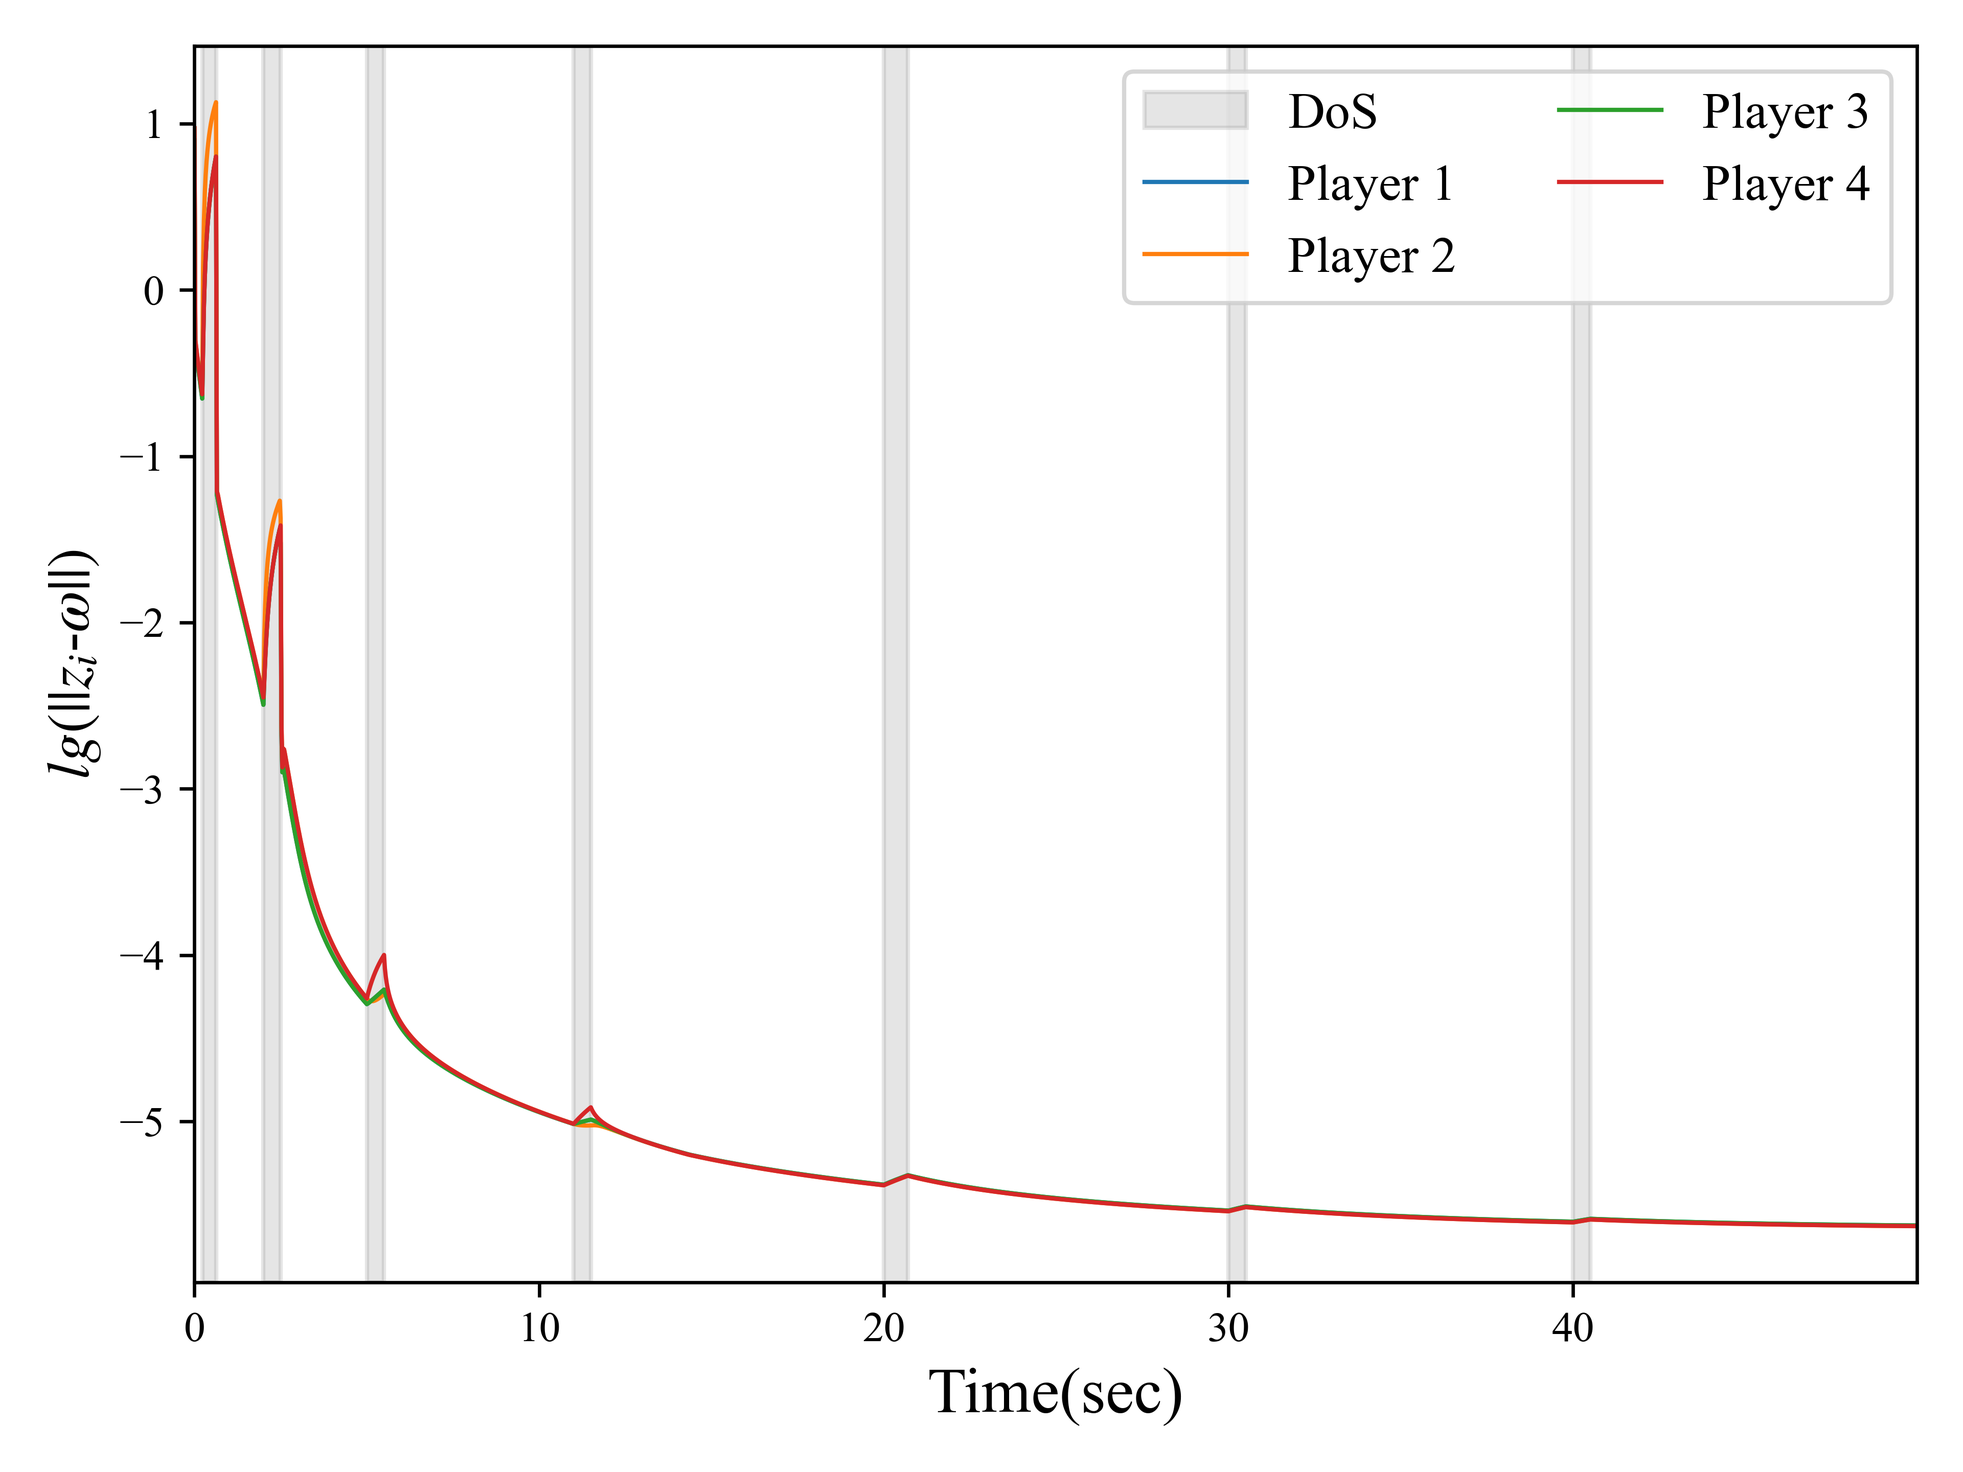
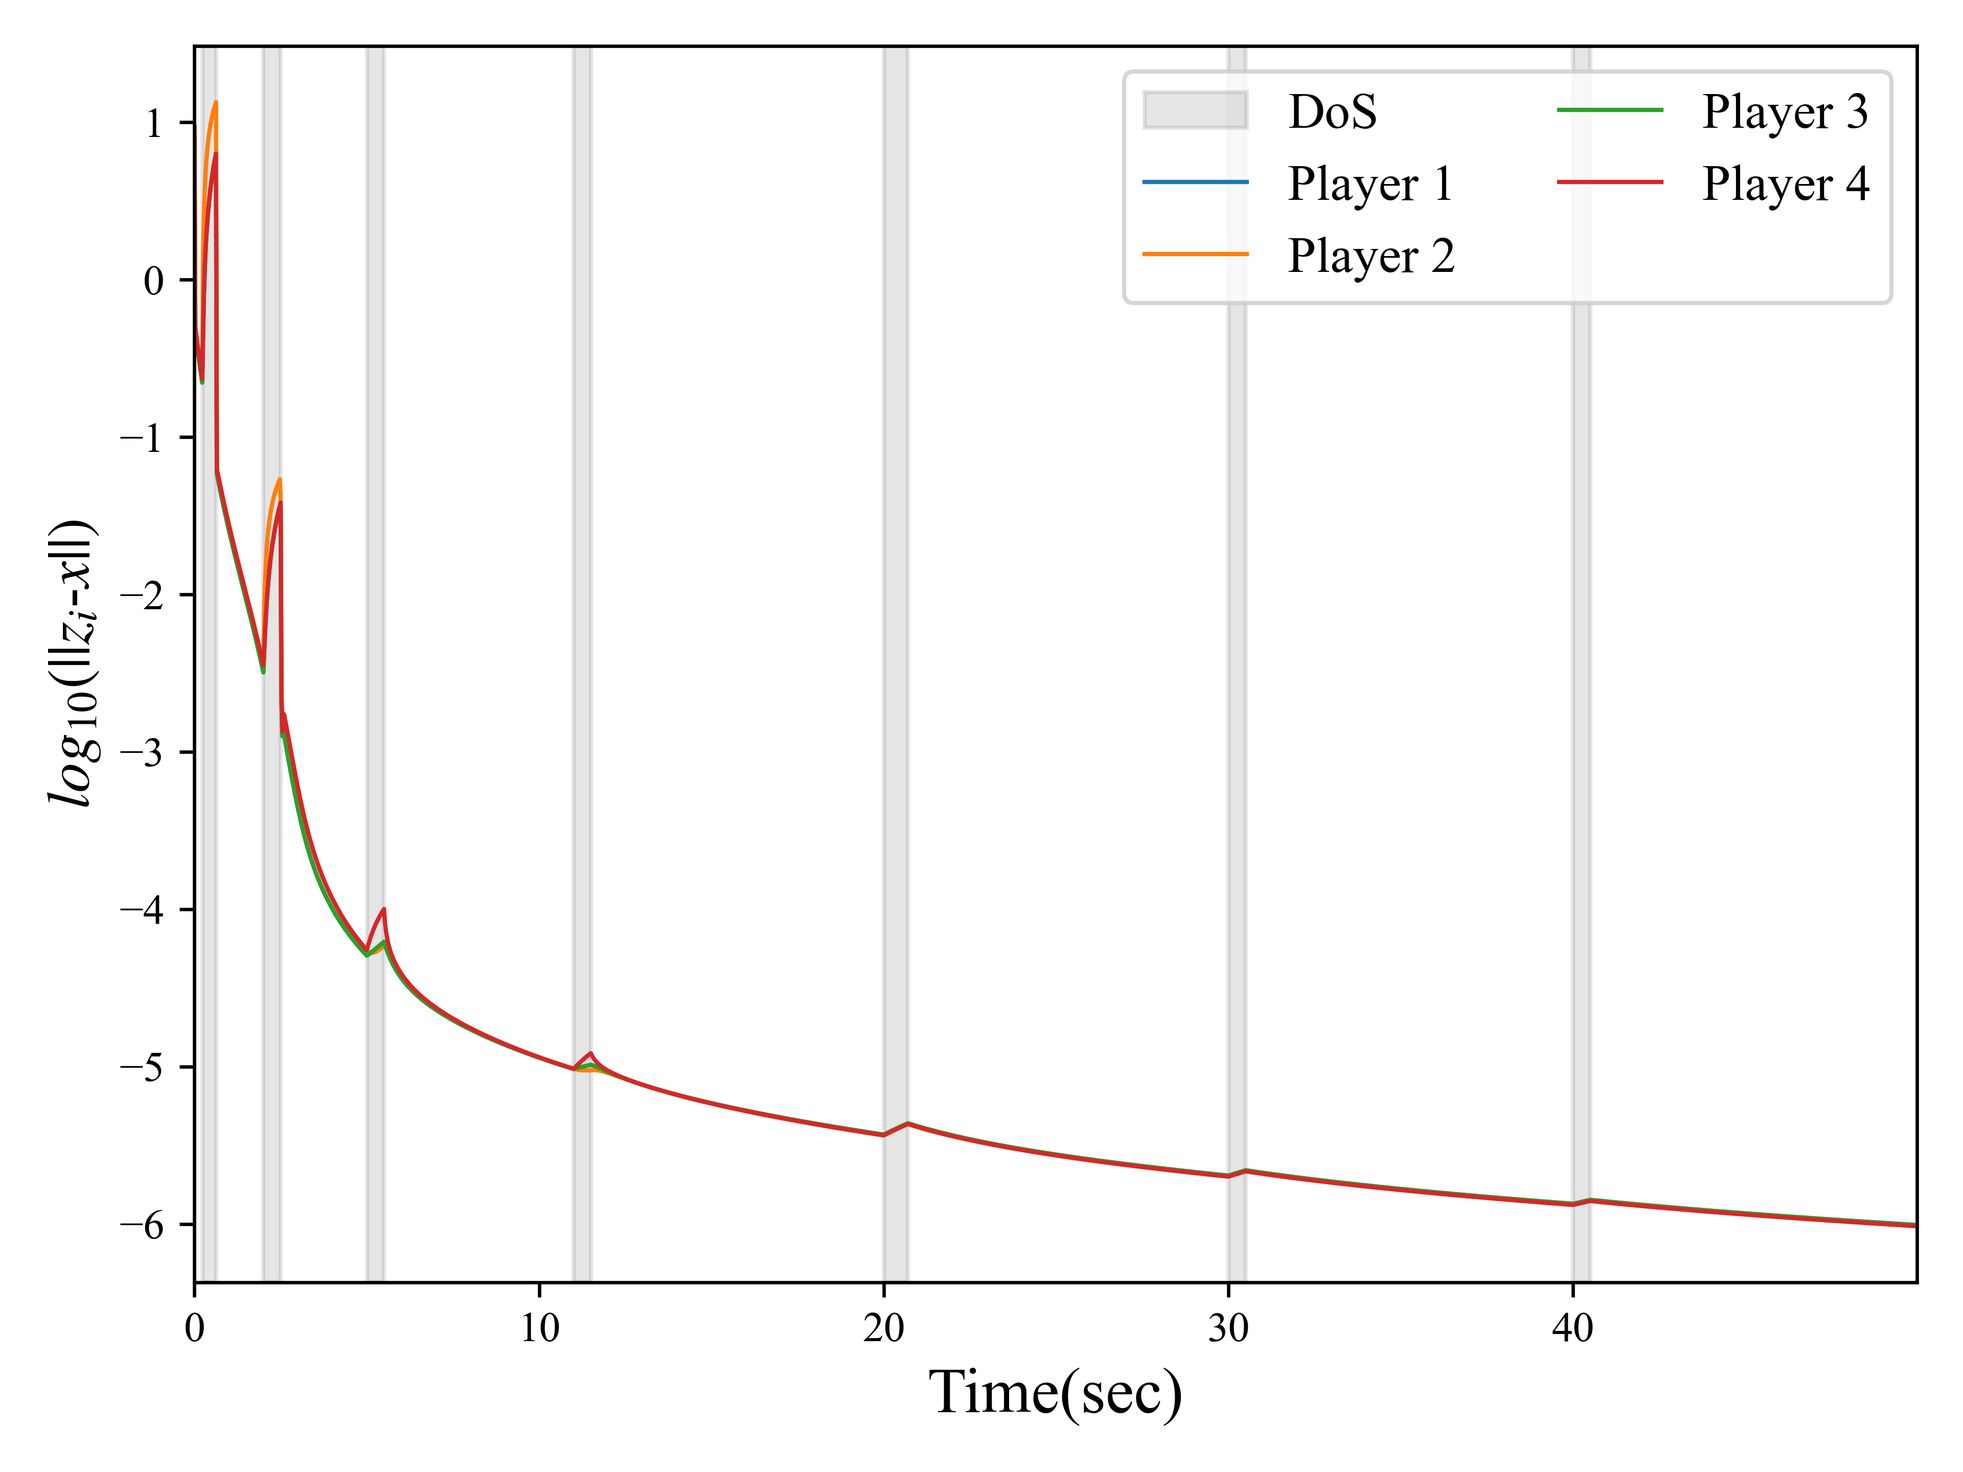
fix

diff --git a/reassmble/fix-linear/fixed_linear_GD.py b/reassmble/fix-linear/fixed_linear_GD.py
@@ -1,0 +1,136 @@
+import matplotlib.pyplot as plt
+import matplotlib.colors as mcolors
+import numpy as np
+import os
+import copy
+import json
+import scipy.special as sp
+from collections import defaultdict
+from mpl_toolkits.axes_grid1.inset_locator import mark_inset
+from mpl_toolkits.axes_grid1.inset_locator import inset_axes
+import matplotlib as mpl
+from standard import *
+
+mpl.rcParams['figure.dpi'] = 600 
+mpl.rcParams['lines.linewidth'] = 1
+mpl.rcParams['xtick.labelsize'] = 10
+mpl.rcParams['ytick.labelsize'] = 10
+
+class DumpRecords:
+    charater = ['₀', '₁', '₂', '₃', '₄', '₅', '₆', '₇', '₈', '₉']
+    
+    def __init__(self, config, index) -> None:
+        self.config = config
+        self.index = index
+        self.agent_nums = self.config['agent_config']['model_config']['N']
+    
+    def read_records(self,record_path):
+        # record_path = f"/app/records/{model}/{index}"
+        records = []
+        for i in range(self.agent_nums):
+            file_path = f'{record_path}/agent_{i}.txt'
+            with open(file_path, 'r') as f:
+                record = f.read()
+                records.append(json.loads(record))
+        return records
+    
+    def align_list(self, irregular_list):
+        min_length = min(len(lst) for lst in irregular_list)
+        uniform_array = np.array([lst[:min_length] for lst in irregular_list])
+        return uniform_array
+
+
+    def extract_records(self, records):
+        
+        memory = defaultdict()
+
+        for id, record in enumerate(records):
+            vector = defaultdict(list)
+            for item in record:
+                for k, v in item.items():
+                    vector[k].append(v)
+            
+            for k,v in vector.items():
+                if k  not in memory.keys():
+                    memory[k] = []
+                memory[k].append(vector[k])
+
+        return memory
+
+    def get_opt_value(self):
+        r = [10, 20, 30, 40]
+        sum = 2*np.sum(r)
+        p = (sum - 20)/2.2
+        opt_value = []
+        for ri in r:
+            yi = (2*ri - 5 - 0.04*p)/2.04
+            opt_value.append(yi)
+        print(opt_value)
+        return np.array(opt_value)
+
+
+    def cal_partial_cost(self, status):
+        r = [10, 20, 30, 40]
+        partial_value = []
+        for i in range(len(status)):
+            partial_value_i = 2*(status[i]-r[i]) + 0.04*sum(status)+5 + 0.04*status[i]
+            partial_value_i = partial_value_i/4
+            partial_value.append(partial_value_i)
+        
+        return np.array(partial_value)
+
+    def plot_graph(self, record_path=None):
+        if record_path is None:
+            record_path = f"/app/records/{self.config['agent_config']['model']}/{self.index}"
+        figure_dir = record_path + "/figure"
+        result_dir = record_path + "/result"
+        os.makedirs(figure_dir, exist_ok=True)
+        os.makedirs(result_dir, exist_ok=True)
+        records = self.read_records(record_path)
+        memory = self.extract_records(records)
+        
+        
+        status_vector = self.align_list(memory['x'])
+        virtual_vector = self.align_list(memory['y'])
+        estiamte_vector = self.align_list(memory['z'])
+        partial_cost = self.align_list(memory['partial_cost'])
+        ui = self.align_list(memory['update_value'])
+        valid_status_vector = []
+        valid_speed_vector = []
+        valid_acc_vector = []
+
+
+        # valid_status_vector = np.array(valid_status_vector)
+        # valid_speed_vector = np.array(valid_speed_vector)
+        # valid_acc_vector = np.array(valid_acc_vector)
+        time = np.array(memory['time'][-1][:len(virtual_vector[0])])
+        # ui = self.align_list(memory['ui'])
+        DoS_interval = self.config['agent_config']['model_config']['DoS_interval']
+        dos_interval = []
+        for key, intervals in DoS_interval.items():
+            dos_interval.extend(intervals)
+            
+
+        plot_single_status_converge_graph(time, virtual_vector, figure_dir, file_name_prefix="virtual_state", ylabel="$x_{i}$",xlabel_list=["$x_1$", "$x_2$", "$x_3$", "$x_4$"], opt_label_list=["$y_1^*$", "$y_2^*$", "$y_3^*$", "$y_4^*$"])
+        plot_single_status_converge_graph(time, status_vector, figure_dir, file_name_prefix="state", ylabel="$y_i$",xlabel_list=["$y_1$", "$y_2$", "$y_3$", "$y_4$"], opt_label_list=["$y_1^*$", "$y_2^*$", "$y_3^*$", "$y_4^*$"])
+        plot_single_status_graph(time, ui, figure_dir, file_name_prefix="ui", ylabel="$u_i$",xlabel_list=["$u_1$", "$u_2$", "$u_3$", "$u_4$"], opt_label_list=None)
+        plot_dos_estimate_norm_converge_graph(time, virtual_vector,  estiamte_vector, figure_dir, file_name_prefix="estimate_norm", ylabel="$log_{10}(||z_i$-$x||)$", xlabel_list=["Player 1", "Player 2", "Player 3", "Player 4"], dos_interval=dos_interval)
+        
+        partial_cost = np.zeros(virtual_vector.shape)
+        print(partial_cost.shape, virtual_vector.shape)
+        for i in range(virtual_vector.shape[0]):
+            for j in range(virtual_vector.shape[1]):
+                partial_cost_value = self.cal_partial_cost(virtual_vector[:,j,:].flatten())
+                # print(partial_cost_value)
+                partial_cost[:,j,0] = partial_cost_value
+        plot_dos_status_norm_converge_graph(time, partial_cost, figure_dir, file_name_prefix="partial_cost", ylabel="$log_{10}(||\\nabla_i\ f_i(x)||)$",xlabel_list=["Player 1", "Player 2", "Player 3", "Player 4"], dos_interval=dos_interval)
+        get_convergencce_time(status_vector[:,:,0:1], opt_value=self.get_opt_value(), time_vector=time)
+
+if __name__ == "__main__":
+    from config import config
+    index = "c_1"
+    
+    dumpRecords = DumpRecords(config[index], index)
+    current_dir = os.path.dirname(os.path.realpath(__file__))
+    record_path = f"{current_dir}/records/{config[index]['agent_config']['model']}/{index}"
+    dumpRecords.plot_graph(record_path=record_path)

diff --git a/GD/gd-ch3/run.py b/GD/gd-ch3/run.py
@@ -124,28 +124,63 @@ class CentralizedModel:
         self.done()
 
 
+from concurrent.futures import ThreadPoolExecutor, as_completed
+
 def run_batch_simulations(config_list, num_agents, init_values_list):
     """
-    批量运行相同配置下的不同初始条件
+    批量运行相同配置下的不同初始条件（极简多线程版）
     """
-    for config_index in config_list:
-        print(f"========== Starting batch runs for configuration: {config_index} ==========")
+    # 1. 在函数内部直接定义一个闭包任务，不用把代码移到外面
+    def single_task(config_idx, s_id, i_val):
+        print(f"--- Running config {config_idx}, simulation {s_id} ---")
+        centralized_system = CentralizedModel(
+            num_agents=num_agents, 
+            config_index=config_idx, 
+            init_value=i_val,
+            simu_id=s_id
+        )
+        centralized_system.run()
+        return f"Finished config {config_idx}, simu {s_id}"
+
+    # 2. 开启线程池（max_workers 可以根据你的服务器 CPU 核心数调整，比如 8 或 16）
+    with ThreadPoolExecutor(max_workers=8) as executor:
+        futures = []
+        for config_index in config_list:
+            print(f"========== Queuing runs for configuration: {config_index} ==========")
+            for simu_id, init_val in enumerate(init_values_list):
+                # 提交任务到线程池
+                future = executor.submit(single_task, config_index, simu_id, init_val)
+                futures.append(future)
         
-        for simu_id, init_val in enumerate(init_values_list):
-            print(f"\n--- Running simulation {simu_id} ---")
+        # 3. 动态等待所有任务完成并打印结果 (可选，用于监控进度)
+        for future in as_completed(futures):
+            print(future.result())
             
-            # 实例化系统，传入对应的 simu_id
-            centralized_system = CentralizedModel(
-                num_agents=num_agents, 
-                config_index=config_index, 
-                init_value=init_val,
-                simu_id=simu_id  # 传入 ID 用于创建对应的文件夹
-            )
+    print("========== Finished ALL batch runs ==========\n")
+
+
+# def run_batch_simulations(config_list, num_agents, init_values_list):
+#     """
+#     批量运行相同配置下的不同初始条件
+#     """
+#     for config_index in config_list:
+#         print(f"========== Starting batch runs for configuration: {config_index} ==========")
+        
+#         for simu_id, init_val in enumerate(init_values_list):
+#             print(f"\n--- Running simulation {simu_id} ---")
             
-            # 运行算法
-            centralized_system.run()
+#             # 实例化系统，传入对应的 simu_id
+#             centralized_system = CentralizedModel(
+#                 num_agents=num_agents, 
+#                 config_index=config_index, 
+#                 init_value=init_val,
+#                 simu_id=simu_id  # 传入 ID 用于创建对应的文件夹
+#             )
             
-        print(f"========== Finished batch runs for configuration: {config_index} ==========\n")
+#             # 运行算法
+#             centralized_system.run()
+            
+#         print(f"========== Finished batch runs for configuration: {config_index} ==========\n")
 
 
 def run_single_simulation(config_index, num_agents, init_value):
@@ -165,10 +200,10 @@ if __name__ == "__main__":
     config_list = ["r_1"]
     num_agents = 5
     init_value = {"x": np.array([5, -5, -3, -3, 1], dtype=float)}
-    run_single_simulation(config_list[0], num_agents, init_value)
+    # run_single_simulation(config_list[0], num_agents, init_value)
 
 # 设定 8 种不同的初始幅度大小（从小到大，测试算法对极大初始偏差的收敛鲁棒性）
-    amplitudes = [5, 25, 45, 65, 85, 105, 125, 145.0]
+    amplitudes = [5, 15, 25, 35, 45, 55, 65, 75]
     
     # 设定智能体初始分布的基础方向矩阵（分布在四个象限）
     import numpy as np

diff --git a/GD/gd-ch3/draw.py b/GD/gd-ch3/draw.py
@@ -23,7 +23,7 @@ mpl.rcParams['xtick.labelsize'] = 10
 mpl.rcParams['ytick.labelsize'] = 10
 
 
-def get_multi_initi_value_convergence_time(base_path, num_agents):
+def get_multi_initi_value_convergence_time(base_path, num_agents, opt_value=None):
     convergence_time_dict = {}
     for simu_folder in sorted(os.listdir(base_path)):
         simu_path = os.path.join(base_path, simu_folder)
@@ -34,12 +34,14 @@ def get_multi_initi_value_convergence_time(base_path, num_agents):
                 continue
             convergence_time_dict[simu_id] = {"convergence_time": None, "init_value": None}
             memory = get_records_memory(simu_path, num_agents)
-            status_vector = align_list(memory['vr'])
+            status_vector = align_list(memory['x'])
             time = np.array(memory['time'][-1][:len(status_vector[0])])
-            opt_value = np.zeros(status_vector.shape)
-            for i in range(len(time)):
-                for j in range(status_vector.shape[0]):
-                    opt_value[j, i, :] = np.array([2*np.cos(2*time[i] + j*np.pi/2)+np.cos(0.5*time[i]), 2*np.sin(2*time[i] + j*np.pi/2)+np.sin(0.5*time[i]), 0.5*time[i]])
+            if opt_value is None:
+                opt_value = np.zeros(status_vector.shape)
+                NE_point = np.array([0.12815768398783586, 0.6012151511176591, 1.0233494776122871, 1.2797928121775644, 2.000099746727306])
+                for i in range(len(time)):
+                    for j in range(status_vector.shape[0]):
+                        opt_value[j, i, :] = NE_point[j]
 
             convergence_time_dict[simu_id]["convergence_time"] = get_convergence_time(status_vector, opt_value, time, error=1e-2)
             convergence_time_dict[simu_id]["init_value"] = np.linalg.norm(status_vector[:, 0, :].flatten())  # 假设 x 的初始值在这里
@@ -90,7 +92,7 @@ def plot_graph(memory, record_path):
     plot_status_graph(time, partial_cost, figure_dir, file_name_prefix='partial_cost', ylabel=r"$\nabla_if_i(x)$", x_labels=[r"$\nabla_1f_1(x)$", r"$\nabla_2f_2(x)$", r"$\nabla_3f_3(x)$", r"$\nabla_4f_4(x)$", r"$\nabla_5f_5(x)$"], equilibrium_value=0)
     plot_status_graph(time, update_value, figure_dir, file_name_prefix='update_value', var_name='u', equilibrium_value=0)
     # plot_error_value_graph(time, y_vector, y_opt_value, figure_dir, ylabel_list=[r"$||y_1 - \bar{y}||$", r"$||y_2 - \bar{y}||$", r"$||y_3 - \bar{y}||$", r"$||y_4 - \bar{y}||$"], y_title=r"$||y_i - \bar{y}||$", file_name_prefix='yi_status_error', xlim=(0, 0.05))
-    plot_error_value_graph(time, z_vector, z_opt_value, figure_dir, ylabel_list=[r"$||z_1 - x||$", r"$||z_2 - x||$", r"$||z_3 - x||$", r"$||z_4 - x||$", r"$||z_5 - x||$"], y_title=r"$||z_i - x||$", file_name_prefix='zi_status_error', xlim=(0, 0.3))
+    plot_error_value_graph(time, z_vector, z_opt_value, figure_dir, ylabel_list=[r"$||z_1 - x||$", r"$||z_2 - x||$", r"$||z_3 - x||$", r"$||z_4 - x||$", r"$||z_5 - x||$"], y_title=r"$||z_i - x||$", file_name_prefix='zi_status_error', xlim=(0, 0.05))
 
     # initial_value_norms = [15, 75, 135, 195, 255, 315, 375, 435]
     # asym_convergence_times = [3.74, 4.34, 4.58, 4.75, 4.91, 5.05, 5.15, 5.24] 
@@ -109,10 +111,10 @@ if __name__ == "__main__":
     current_dir = os.path.dirname(os.path.realpath(__file__))
     record_root_path = f"{current_dir}/records/{model}/"
     
-    for config_index in config_list:
-        print(f"Running configuration: {config_index}")
-        record_path = record_root_path + config_index
-        memory = get_records_memory(record_path, num_agents)
-        plot_graph(memory, record_path)
+    # for config_index in config_list:
+    #     print(f"Running configuration: {config_index}")
+    #     record_path = record_root_path + config_index
+    #     memory = get_records_memory(record_path, num_agents)
+    #     plot_graph(memory, record_path)
 
-    # get_multi_initi_value_convergence_time(record_root_path + config_list[1], num_agents)
+    get_multi_initi_value_convergence_time(record_root_path + config_list[0], num_agents)

diff --git a/reassmble/fix-linear/standard.py b/reassmble/fix-linear/standard.py
@@ -529,6 +529,69 @@ def plot_single_status_converge_graph(
     plt.close()
     print(f"Saved figure: {path}")
 
+
+
+
+def plot_single_status_graph(
+    time,
+    status_vector,
+    figure_dir,
+    ylabel,
+    xlabel_list,
+    opt_label_list,
+    file_name_prefix=None,
+    dim = 0,
+    n_cols=2,
+    y_bottom = None,
+):
+    os.makedirs(figure_dir, exist_ok=True)
+
+    status_vector = np.array(status_vector)
+    N, T, D = status_vector.shape
+    colors = list(mcolors.TABLEAU_COLORS.values())
+    
+    for i in range(N):
+        y = status_vector[i, :, dim]
+        color = colors[i % len(colors)]
+        plt.plot(time, y, color=color, label=xlabel_list[i])
+        
+        # 绘制收敛点虚线
+        plt.hlines(
+            [0]*len(time), xmin=time[0], xmax=time[-1],
+            colors=color, linestyles='dashed', linewidth=1.2
+        )
+        # legends.append(f"{var_name}_{i+1}")
+    y_max = np.max(status_vector[:, :, dim])
+    plt.xlabel('Time(sec)', fontsize=15, fontproperties=prop)
+    plt.ylabel(ylabel, fontsize=14, fontproperties=prop)
+    plt.legend(fontsize=12, loc='upper right', ncol=n_cols)
+    plt.xlim(left=0, right=time[-1])
+    plt.tight_layout()
+    # if y_bottom is not None:
+    #     plt.ylim(bottom=y_bottom, top=y_max*1.1)
+    # else:
+    #     plt.ylim(0, top=y_max*2)
+        
+    ax = plt.gca()
+    add_zoom_inset(
+        ax_main=ax,
+        time=time,
+        status_vector=status_vector,
+        dim=dim,
+        zoom_xlim=(0, 4),
+        zoom_loc='upper left'  # 可改为 'upper left' 等
+    )
+
+    # 保存图片
+    if file_name_prefix:
+        fname = f"{file_name_prefix}.png"
+    else:
+        fname = f"status.png"
+    path = os.path.join(figure_dir, fname)
+    plt.savefig(path)
+    plt.close()
+    print(f"Saved figure: {path}")
+
 def matrix_flatten_l2norm(M):
     return np.linalg.norm(M.flatten(), ord=2)
 

diff --git a/GD/gd-ch3/config.py b/GD/gd-ch3/config.py
@@ -61,7 +61,7 @@ config = {
                     "p": 0.8,
                     "q": 0.5,
                     'alpha': [500, 0, 0, 100],
-                    'beta':[5, 0.5],
+                    'beta':[2.5, 0.5],
                 },
                 'is_finite': True,
             },

diff --git a/GD/utilis.py b/GD/utilis.py
@@ -119,7 +119,6 @@ def plot_error_value_graph(
     y_title='||x - x*||',
     xlim=None
 ):
-    plt.figure(figsize=(8, 5))
     os.makedirs(figure_dir, exist_ok=True)
     status_vector = np.array(status_vector)
     N, T, D = status_vector.shape[:3]
